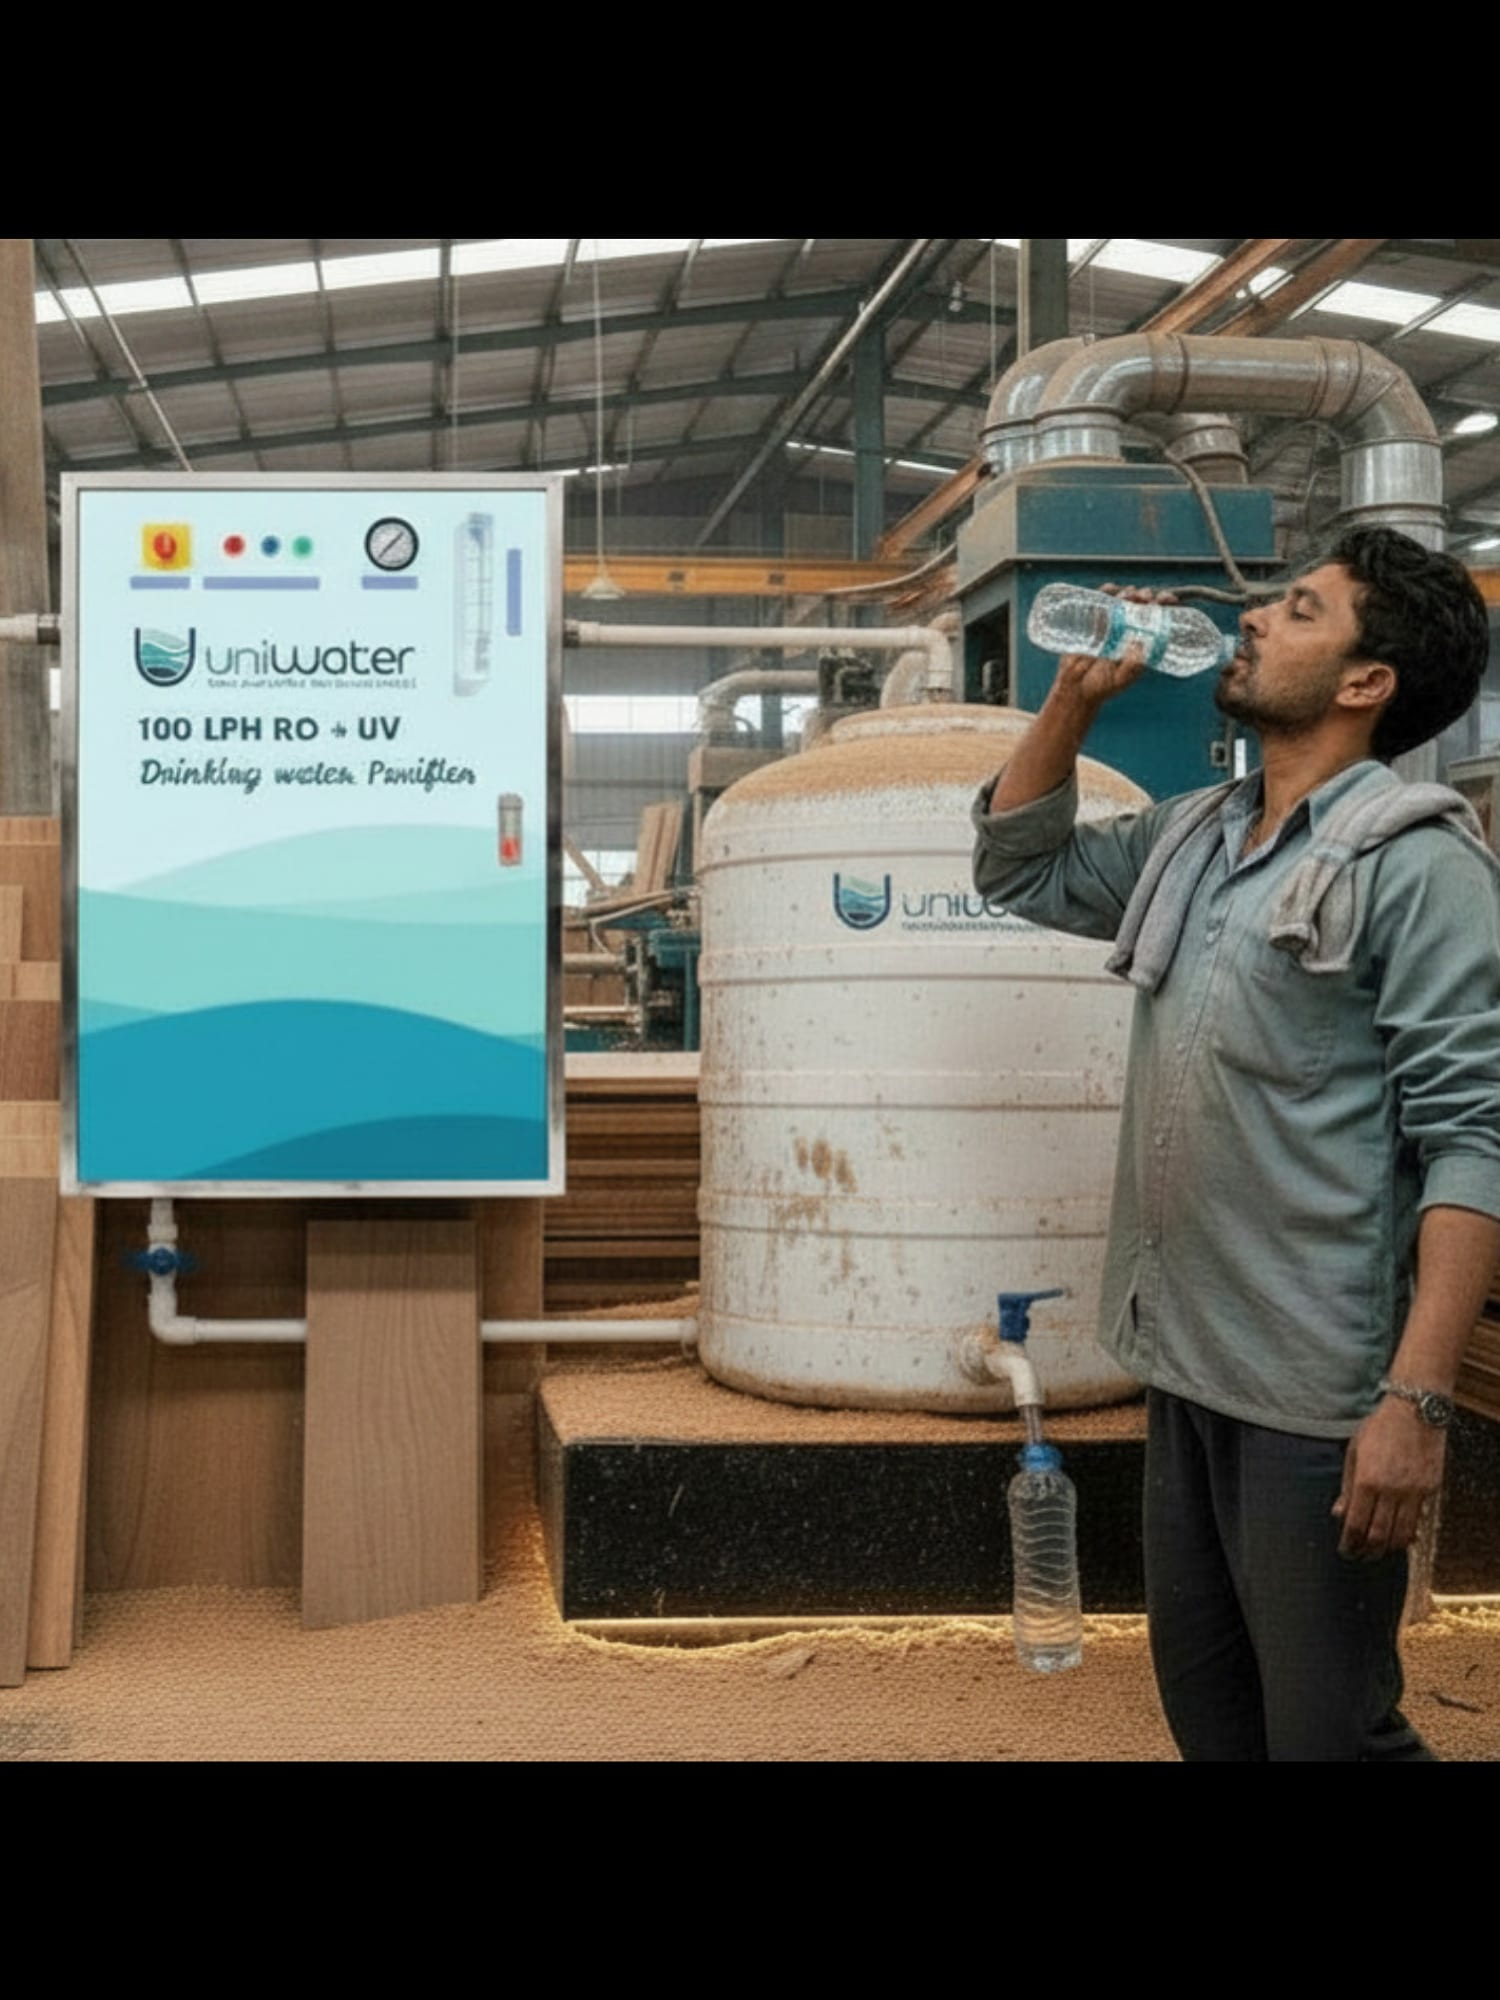
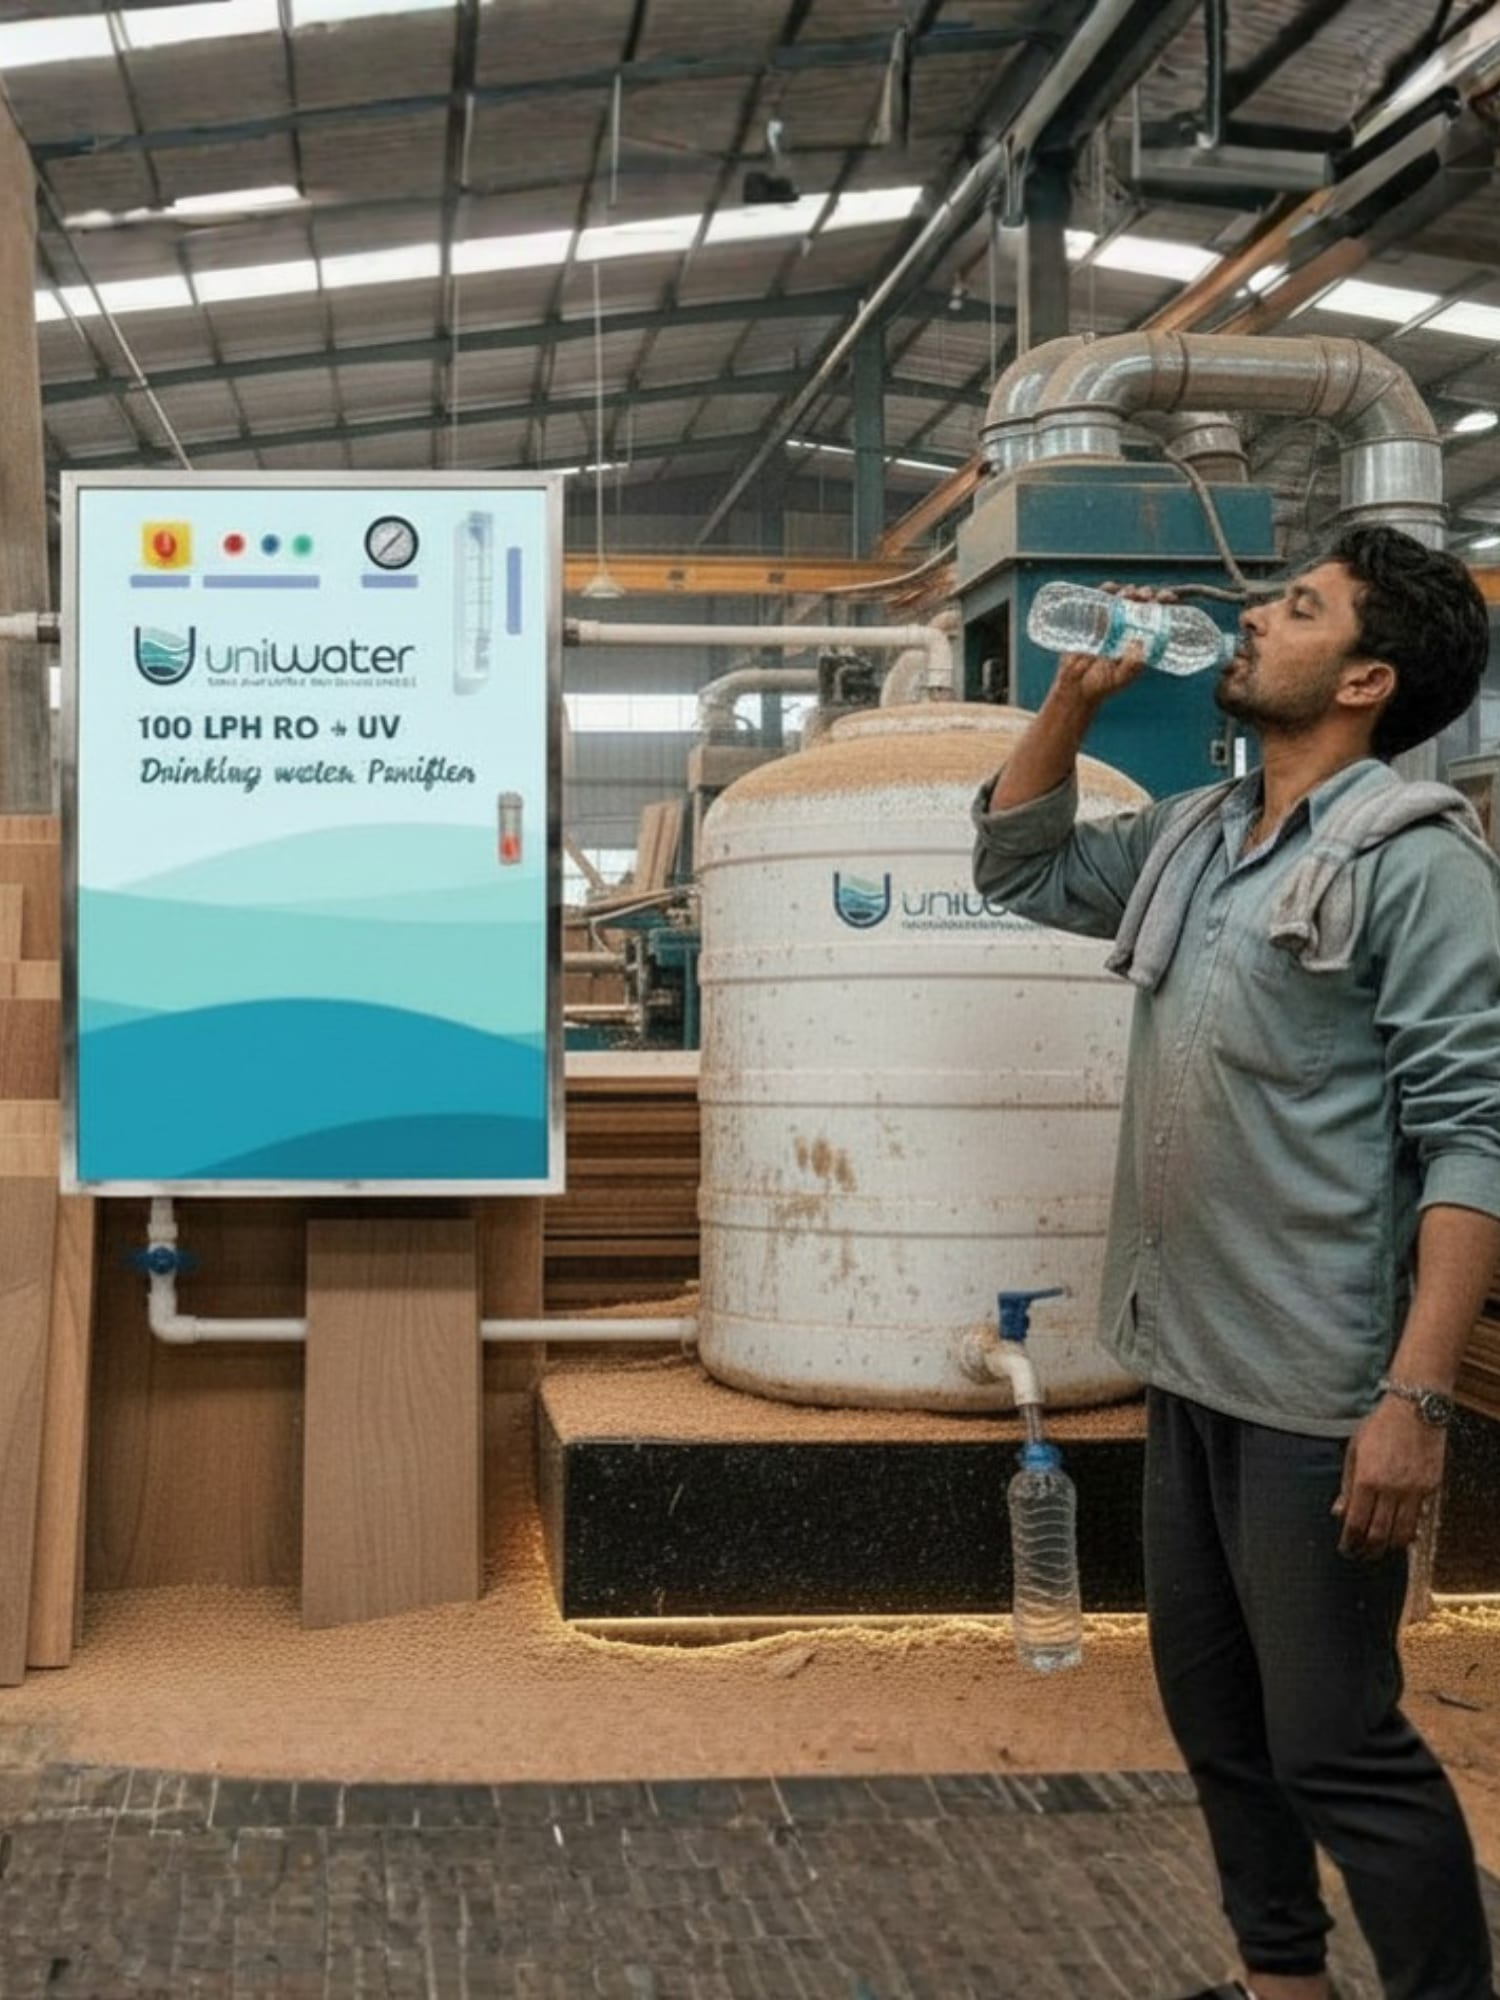
Nepal landing: new mobile hero, hero-text safe-area padding, +977 call line
Three stacked tweaks from Rajat 2026-06-05:

1. New mobile hero image
   Rajat dropped a recomposed mobile crop (tighter 3:4 portrait,
   same scene but less negative space at the top of the warehouse,
   worker + product better centred). Converted to mozjpeg q82 and
   wrote over public/images/hero/nepal-waas-mobile.jpg (2.56 MB PNG
   -> 255 KB JPG, 1500x2000). Source PNG removed from
   public/images/. Hero <picture> markup didn't need updating --
   the file at the same path took the swap.

2. Hero text mobile padding
   Bumped bottom padding on the hero text container from pb-10
   (40 px) to pb-14 (56 px) at sub-sm widths, with sm:pb-10 keeping
   the original on slightly wider phones and lg:pb-0 unchanged (the
   text block centers vertically at lg, so no bottom padding
   needed). Also added px-1 at sub-sm so the text isn't pressed
   flush against the container-uw's 24 px side edges. The previous
   mobile state had text crowding the iOS home-bar safe area;
   56 px is the standard clearance + breathing room.

3. Calling number swap -- back to the +977 local
   NEPAL_CALL_LINES updated from ['+91-9748745193'] to
   ['+977-9819391754']. WhatsApp deeplink number stays at the
   Indian +91-9748745193 (NEPAL_WHATSAPP_E164 unchanged) because
   that's the central WhatsApp Business account the sales team
   actually answers; the displayed call number reverts to the
   Nepal local for trust + cheaper-to-dial on the ground. Earlier
[…]

diff --git a/content/nepal-waas.ts b/content/nepal-waas.ts
@@ -48,11 +48,15 @@ export const TAGLINE = 'Wellness starts with clean water.';
  *  sitewide module is restructured. */
 export const NEPAL_WHATSAPP_E164 = '919748745193';
 
-/** Displayed call line on the page. Single number sitewide.
- *  The brief originally listed +977-9819391754 (Nepal local) and
- *  +91-9663245193 (a second Indian line); Rajat consolidated to
- *  +91-9748745193 only 2026-06-05. */
-export const NEPAL_CALL_LINES = ['+91-9748745193'] as const;
+/** Displayed call line on the page -- Nepal local number per Rajat
+ *  2026-06-05: "keep calling number to: +977 9819391754". The
+ *  WhatsApp deeplink number (NEPAL_WHATSAPP_E164) stays at the
+ *  Indian +91-9748745193 because that's the central WhatsApp
+ *  Business account handling the campaign; the displayed call
+ *  number is the Nepal local for trust + cheaper-to-dial on the
+ *  ground. Earlier today this was momentarily consolidated to the
+ *  +91 line; today's update splits call vs WhatsApp again. */
+export const NEPAL_CALL_LINES = ['+977-9819391754'] as const;
 
 // ----- Service tabs -------------------------------------------------------
 

diff --git a/app/nepal/water-as-a-service/page.tsx b/app/nepal/water-as-a-service/page.tsx
@@ -110,7 +110,15 @@ export default function NepalWaaSPage({ searchParams }: PageProps) {
           aria-hidden="true"
         />
         <div className="relative h-full container-uw flex items-end lg:items-center">
-          <div className="w-full lg:max-w-[800px] pb-10 lg:pb-0 flex flex-col gap-5">
+          {/* Hero text block: mobile gets a fatter bottom padding
+              (pb-14 = 56px) plus a small horizontal nudge (px-1 = 4px
+              over the container-uw's 24px sides). Visitors on small
+              phones were seeing the text pressed against the bottom
+              edge and the safe-area indicator; 56px is the standard
+              iOS home-bar clearance + breathing room. Padding zeroes
+              out at lg where the block sits vertically centered with
+              its own width cap. */}
+          <div className="w-full lg:max-w-[800px] px-1 sm:px-0 pb-14 sm:pb-10 lg:pb-0 lg:px-0 flex flex-col gap-5">
             <p className="text-eyebrow font-ui font-medium uppercase tracking-[0.18em] text-soft">
               {HERO_EYEBROW}
             </p>
